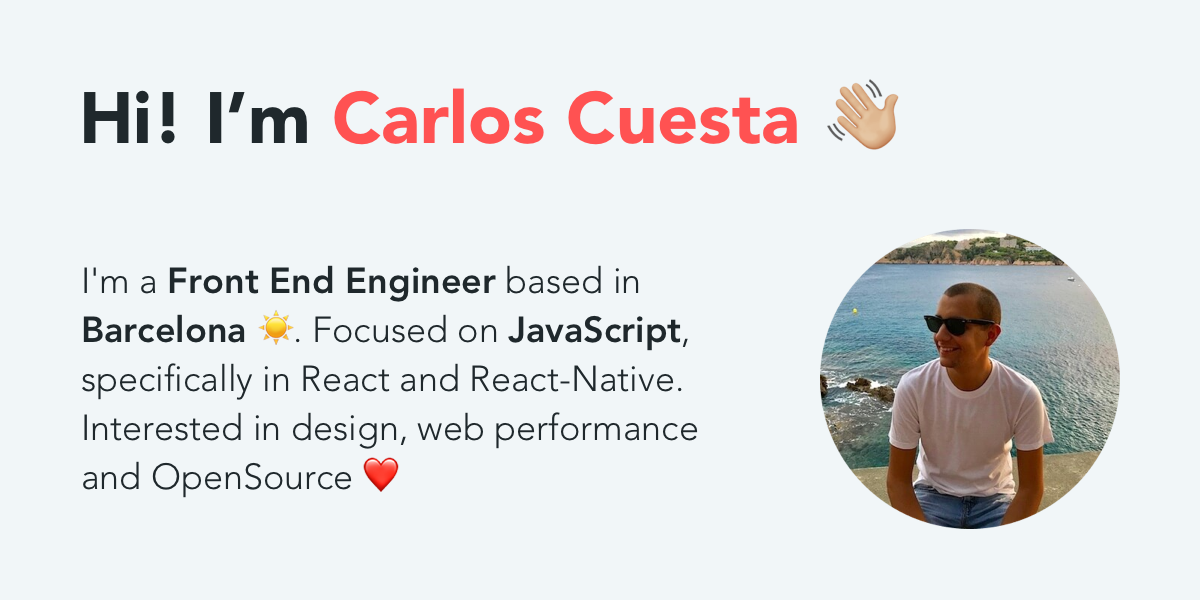
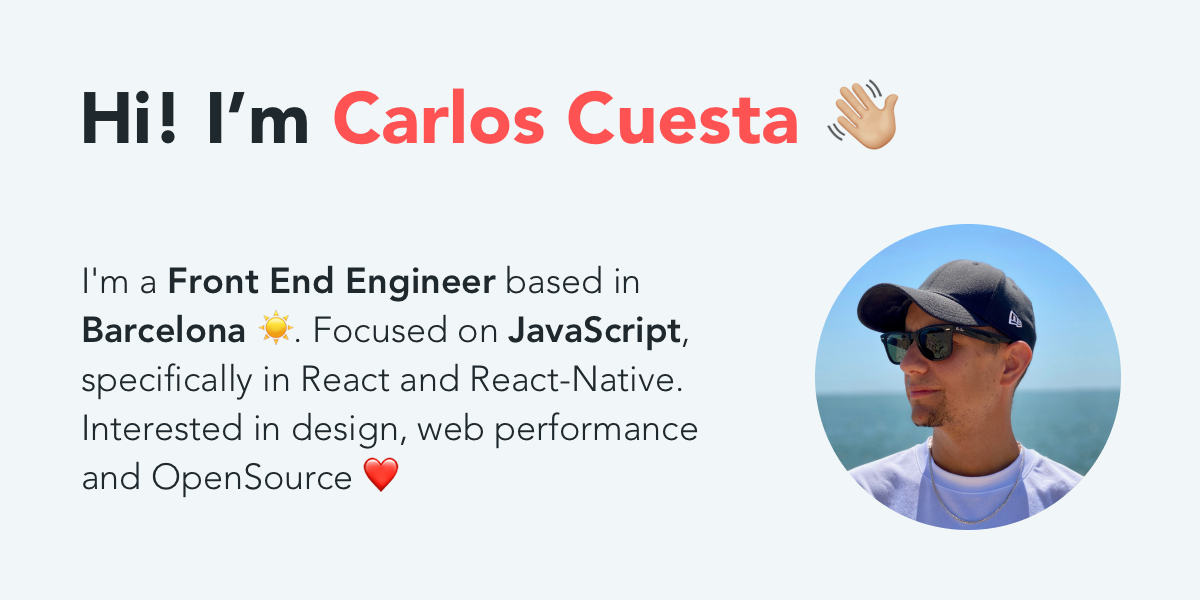
✨  Update profile picture (#214)
* :sparkles: Update public/images
* :sparkles: Update favicons
* :sparkles: Replace image on Biography component
* :recycle: Set twitter:image and og:image as different resources
* :recycle: Do not use circle on apple-icons

Changed region(s): [[0.6783, 0.36, 0.9558, 0.9]]

diff --git a/src/pages/_app.js b/src/pages/_app.js
@@ -23,6 +23,12 @@ const App = (props: Props) => {
   return (
     <Layout>
       <DefaultSeo
+        additionalMetaTags={[
+          {
+            name: 'twitter:image',
+            content: 'https://carloscuesta.me/images/twitter-card.png'
+          }
+        ]}
         title='Carlos Cuesta – Front End Engineer'
         description={'I\'m a Front End engineer based in Barcelona, Spain. ' +
           'Coding passionate that is focused on JavaScript. ' +
@@ -35,9 +41,9 @@ const App = (props: Props) => {
           images: [
             {
               alt: 'Carlos Cuesta',
-              height: 600,
-              url: 'https://carloscuesta.me/images/twitter-card.png',
-              width: 1200
+              height: 500,
+              url: 'https://carloscuesta.me/images/carloscuesta.jpg',
+              width: 500
             }
           ]
         }}

diff --git a/src/components/pages/index/Biography/index.js b/src/components/pages/index/Biography/index.js
@@ -28,13 +28,12 @@ const Biography = () => (
           <img
             alt='Carlos Cuesta'
             className={`lazyload ${styles.profilePicture}`}
-            data-src='https://res.cloudinary.com/carloscuesta/image/upload/s--ToCVp7yf--/q_81:420/v1593723466/carloscuesta-avatar.jpg'
-            src='https://res.cloudinary.com/carloscuesta/image/upload/s--fd8FbLBW--/c_scale,e_blur:100,q_10,w_125/v1593723466/carloscuesta-avatar.jpg'
+            data-src='https://res.cloudinary.com/carloscuesta/image/upload/s--bhEud7Xt--/q_80/v1594588508/carloscuesta.jpg'
+            src='https://res.cloudinary.com/carloscuesta/image/upload/s--rq7ZUVpY--/c_scale,e_blur:100,h_120,q_10,w_120/v1594588508/carloscuesta.jpg'
           />
         </div>
       </div>
     </Wrapper>
-
   </section>
 )
 
